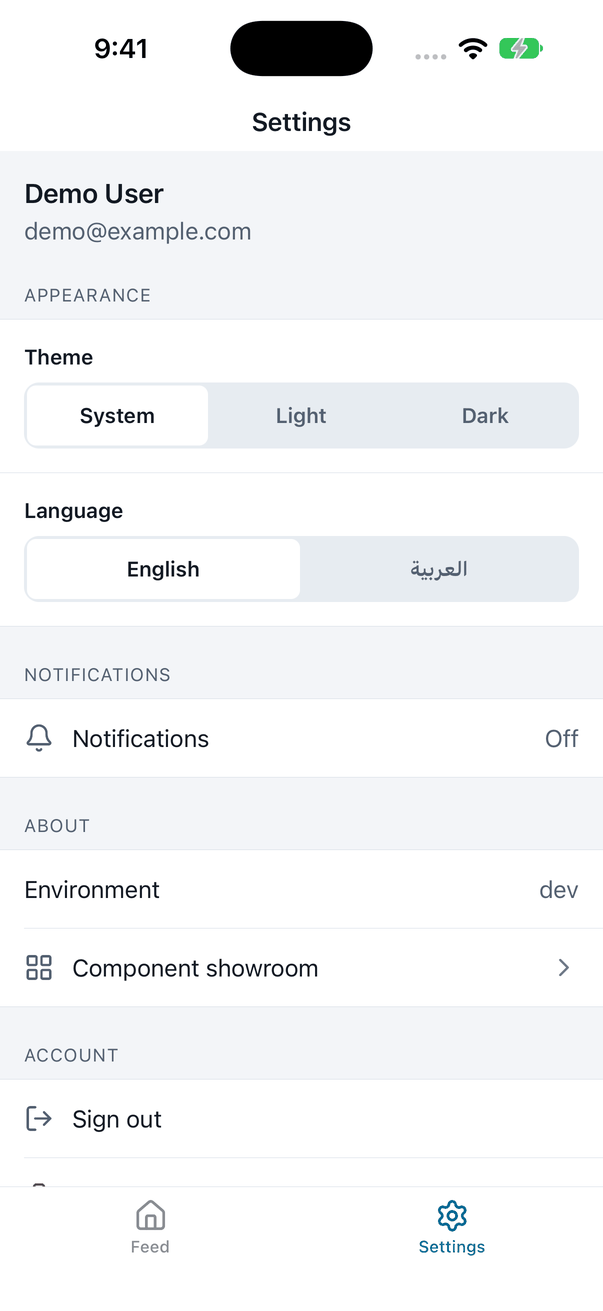
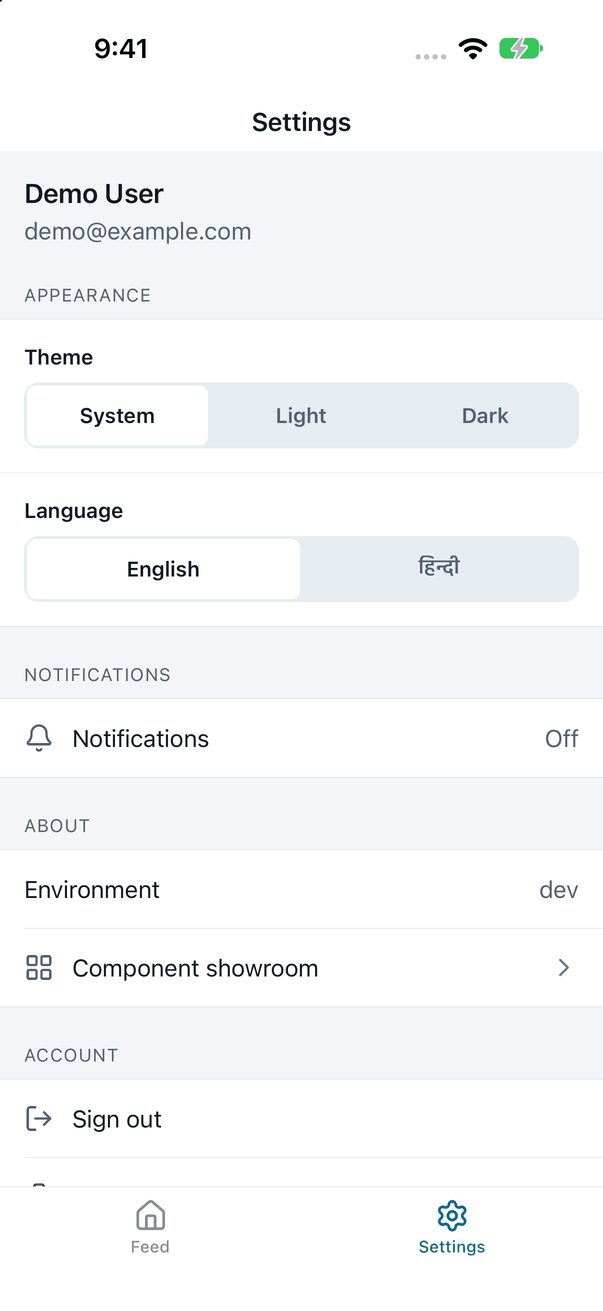
docs: settings screenshots with Hindi, and a languages guide
- iOS and Android Settings screenshots show English and हिन्दी instead
  of the Arabic option.
- docs/languages.md: how languages work, writing text that translates,
  adding a language or a right-to-left one, and removing one. On the
  website under Build your app; linked from the README, the app README
  and the FAQ.
- Version matrix: Hindi checked on Hermes.

Changed region(s): [[0.3881, 0.0, 0.6269, 0.061], [0.6866, 0.4272, 0.7761, 0.4577]]

diff --git a/docs/languages.md b/docs/languages.md
@@ -1,0 +1,62 @@
+# Languages and right-to-left
+
+The app ships in English and Hindi. Users pick a language in Settings, and the first launch follows the
+phone's language when the app has it. Right-to-left languages such as Arabic or Urdu are supported: you
+add one with a single setting ([ADR 0017](decisions/0017-languages-hindi-and-opt-in-rtl.md)).
+
+## How it works
+
+| Part | Where | What it does |
+| --- | --- | --- |
+| Strings | `src/shared/i18n/locales/en.json`, `hi.json` | One file per language, with the same keys |
+| Languages | `LANGUAGES` in `src/shared/i18n/index.ts` | Each language's own name and whether it's right-to-left |
+| Engine | i18next and react-i18next | `t('feed.title')`, `{{name}}` placeholders and plurals |
+| Device language | react-native-localize | Picks the phone's language on first launch |
+| Dates, numbers, "2 days ago" | `useFormat()` in `src/shared/lib/format.ts` | Formats in the current language |
+
+Translation keys are typed from `en.json`, so a wrong key fails `pnpm typecheck`, and lint rejects
+hard-coded text in JSX.
+
+## Write text that translates
+
+- Put every string a user sees in `en.json` and read it with `t('…')`. Add the same key to every other
+  locale file; a test fails if one is missing.
+- Plurals use i18next suffixes: `likes_one` and `likes_other` in English and Hindi. Other languages may need
+  more forms (Arabic has six).
+- Format dates, numbers and relative times with `useFormat()` in components, never `formatRelative(date)`
+  directly. The language can change while the app runs, and the React Compiler would keep the old text
+  (lint enforces this).
+- Lay out with `start` and `end`, never `left` and `right` (`marginStart`, `paddingEnd`, `start: 0`).
+  Lint rejects physical sides and `textAlign: 'left' | 'right'`.
+- Mark arrows and chevrons that point "forward" as `directional` on `Icon`, so they flip in right-to-left
+  languages.
+
+## Add a language
+
+1. Copy `src/shared/i18n/locales/en.json` to a file named after the language code, for example `ta.json`
+   for Tamil, and translate it.
+2. In `src/shared/i18n/index.ts`, import it, add it to `resources`, and add an entry to `LANGUAGES` with its
+   own name: `ta: { label: 'தமிழ்', rtl: false }`.
+3. In `src/shared/lib/format.ts`, add its relative-time data:
+   `import ta from 'relative-time-format/locale/ta.json'` and `RelativeTimeFormat.addLocale(ta)`.
+4. Run `pnpm check`. Tests fail if a key or the relative-time data is missing.
+
+`pnpm gen` adds new strings to every locale file as English copies, ready to translate.
+
+## Add a right-to-left language
+
+Follow the steps above and set `rtl: true` on the entry, for example
+`ar: { label: 'العربية', rtl: true }`. Then:
+
+- Switching to or from it changes the layout direction. React Native applies a new direction only at
+  launch, so Settings asks the user to restart.
+- Check every screen on both iOS and Android before you ship. On iOS, text inside rows doesn't yet follow
+  a right-to-left layout everywhere; fix that first.
+
+Tests keep right-to-left working while no shipped language uses it: they switch the direction with the
+flag and check that directional icons mirror.
+
+## Remove a language
+
+Delete its locale file, its entry in `LANGUAGES` and `resources`, and its relative-time import. If only
+English is left, consider hiding the language picker in Settings.

diff --git a/README.md b/README.md
@@ -151,7 +151,7 @@ add your own features, screens and API calls with `pnpm gen` ([generators](docs/
 - Design system on Unistyles 3: tokens, light and dark themes, and about 15 accessible primitives (Button,
   Input, Sheet, Toast, ListItem…), with a component showroom in dev builds.
 - English and Hindi, typed keys, and a lint rule against hard-coded text. Right-to-left languages are one
-  `rtl: true` away: layouts use `start`/`end`, and lint rejects `left`/`right`.
+  `rtl: true` away: layouts use `start`/`end`, and lint rejects `left`/`right` ([languages](docs/languages.md)).
 - React Navigation 7 (static API, native stack, tabs) and FlashList.
 
 **Data and offline**
@@ -258,6 +258,7 @@ independent; the rest of the app keeps working without it.
 | [Going live](docs/going-live.md) | API, signing, Firebase, push, links, force update |
 | [Packaging](docs/packaging.md) | How the npm template and the GitHub template are built and checked (maintainers) |
 | [Generators](docs/generators.md) | Add features, screens and API calls with `pnpm gen` |
+| [Languages](docs/languages.md) | English and Hindi, adding a language, and right-to-left |
 | [Releasing](docs/releasing.md) | fastlane lanes: release builds, version bump, TestFlight and Play uploads |
 | [Demo build](docs/demo-build.md) | Installing the sample-data APK on an Android phone |
 | [Decisions (ADRs)](docs/decisions/README.md) | Why each library and pattern was chosen |

diff --git a/docs/version-matrix.md b/docs/version-matrix.md
@@ -74,7 +74,7 @@ needs a real `GoogleService-Info.plist` (made conditional in Phase 3). See docs/
 - **intl-pluralrules 2.0.1, relative-time-format 1.1.12**: Hermes (RN 0.87) has no `Intl.PluralRules` or
   `Intl.RelativeTimeFormat`. Without them i18next plurals fail silently and `formatRelative` throws
   "undefined cannot be used as a constructor". Replaced the FormatJS polyfills, whose locale matcher also
-  needs `Intl.Locale` (~390 KB in total against ~50 KB). Checked in Hermes for English and Arabic; Hindi uses the same polyfills.
+  needs `Intl.Locale` (~390 KB in total against ~50 KB). Checked in Hermes for English, Arabic and Hindi.
 - **zod 4**: its `locales` barrel re-exports ~60 languages Metro can't tree-shake. `metro.config.js`
   resolves it to `metro/zod-locales.js` (English only, −295 KB). The app's validation messages are its own
   translation keys, so nothing user-visible changes.

diff --git a/scripts/app-readme.md b/scripts/app-readme.md
@@ -70,6 +70,7 @@ Before your first release, connect your API, release signing and, if you want th
 | [AGENTS.md](AGENTS.md) | Rules and conventions for this codebase, for people and AI agents |
 | [Architecture](docs/architecture.md) | Folders, layers, data flow and how the app starts |
 | [Environments](docs/environments.md) | dev, staging and prod: app ids, `.env` files, schemes |
+| [Languages](docs/languages.md) | English and Hindi, adding a language, and right-to-left |
 | [Going live](docs/going-live.md) | API, signing, Firebase, push, links, force update |
 | [Releasing](docs/releasing.md) | Release builds, version bumps, TestFlight and Play uploads |
 | [Native changes](docs/native-changes.md) | Every edit made to `ios/` and `android/` |

diff --git a/website/content/start-here/faq.md b/website/content/start-here/faq.md
@@ -61,8 +61,8 @@ Add a locale file next to `en.json` and `hi.json` in `src/shared/i18n/locales`, 
 
 For a right-to-left language (Arabic, Hebrew, Persian, Urdu), set `rtl: true` on its entry. Layouts use
 `start` and `end` rather than `left` and `right` (lint enforces it), so they mirror, and Settings asks for a
-restart when the direction changes. Check the app on both platforms before you ship it
-([ADR 0017](/reference/decisions/0017-languages-hindi-and-opt-in-rtl/)).
+restart when the direction changes. Check the app on both platforms before you ship it. The full steps are
+in [Languages and right-to-left](/build/languages/).
 
 ## Production
 
